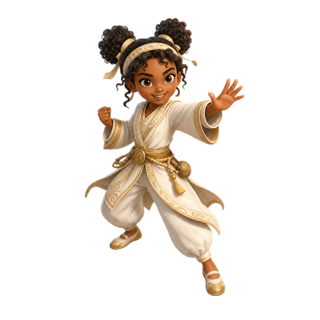
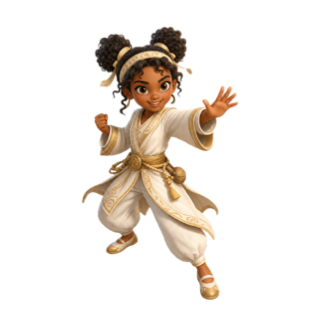
Level 1: run cycles for every Keeper, guided first run

Changed region(s): [[0.25, 0.0312, 0.7812, 0.9375]]

diff --git a/level1/index.html b/level1/index.html
@@ -1558,8 +1558,8 @@ function draw() {
   g.fillStyle = 'rgba(0,0,0,.28)'; g.beginPath(); g.ellipse(P.x, P.y + 30, 26 - bob * .8, 9, 0, 0, TAU); g.fill();
   if (S.buffs.tiger > 0) add(() => { glowAt(kx, ky - 30, 170 + Math.sin(S.t * 18) * 14, '#FF9A3A', .8); if (Math.random() < .5) flames(kx, ky - 10, 1, 20, 22, 120); });
   if (ok(kim)) { g.save(); g.translate(kx, ky + 30 - bob); g.rotate(lean - (P.rx || 0) * .012); if (P.face < 0) g.scale(-1, 1);
-    g.scale(ksx * (1 + hk * .08), ksy * (1 - hk * .1)); g.drawImage(kim, -ks / 2, -ks * .72 - 30, ks, ks);
-    if (hk > 0) { const rd = silhouette(kName, '#FF4A3A'); if (rd) { g.globalAlpha = hk * .6; g.drawImage(rd, -ks / 2, -ks * .72 - 30, ks, ks); g.globalAlpha = 1; } }
+    g.scale(ksx * (1 + hk * .08), ksy * (1 - hk * .1)); g.drawImage(kim, -ks / 2, -ks * .72 - 24, ks, ks);   // feet on the shadow
+    if (hk > 0) { const rd = silhouette(kName, '#FF4A3A'); if (rd) { g.globalAlpha = hk * .6; g.drawImage(rd, -ks / 2, -ks * .72 - 24, ks, ks); g.globalAlpha = 1; } }
     g.restore(); }
   const hb = Math.max(0, P.hp / P.max);
   g.fillStyle = '#1A1206'; g.fillRect(P.x - 40, P.y + 41, 80, 13);
